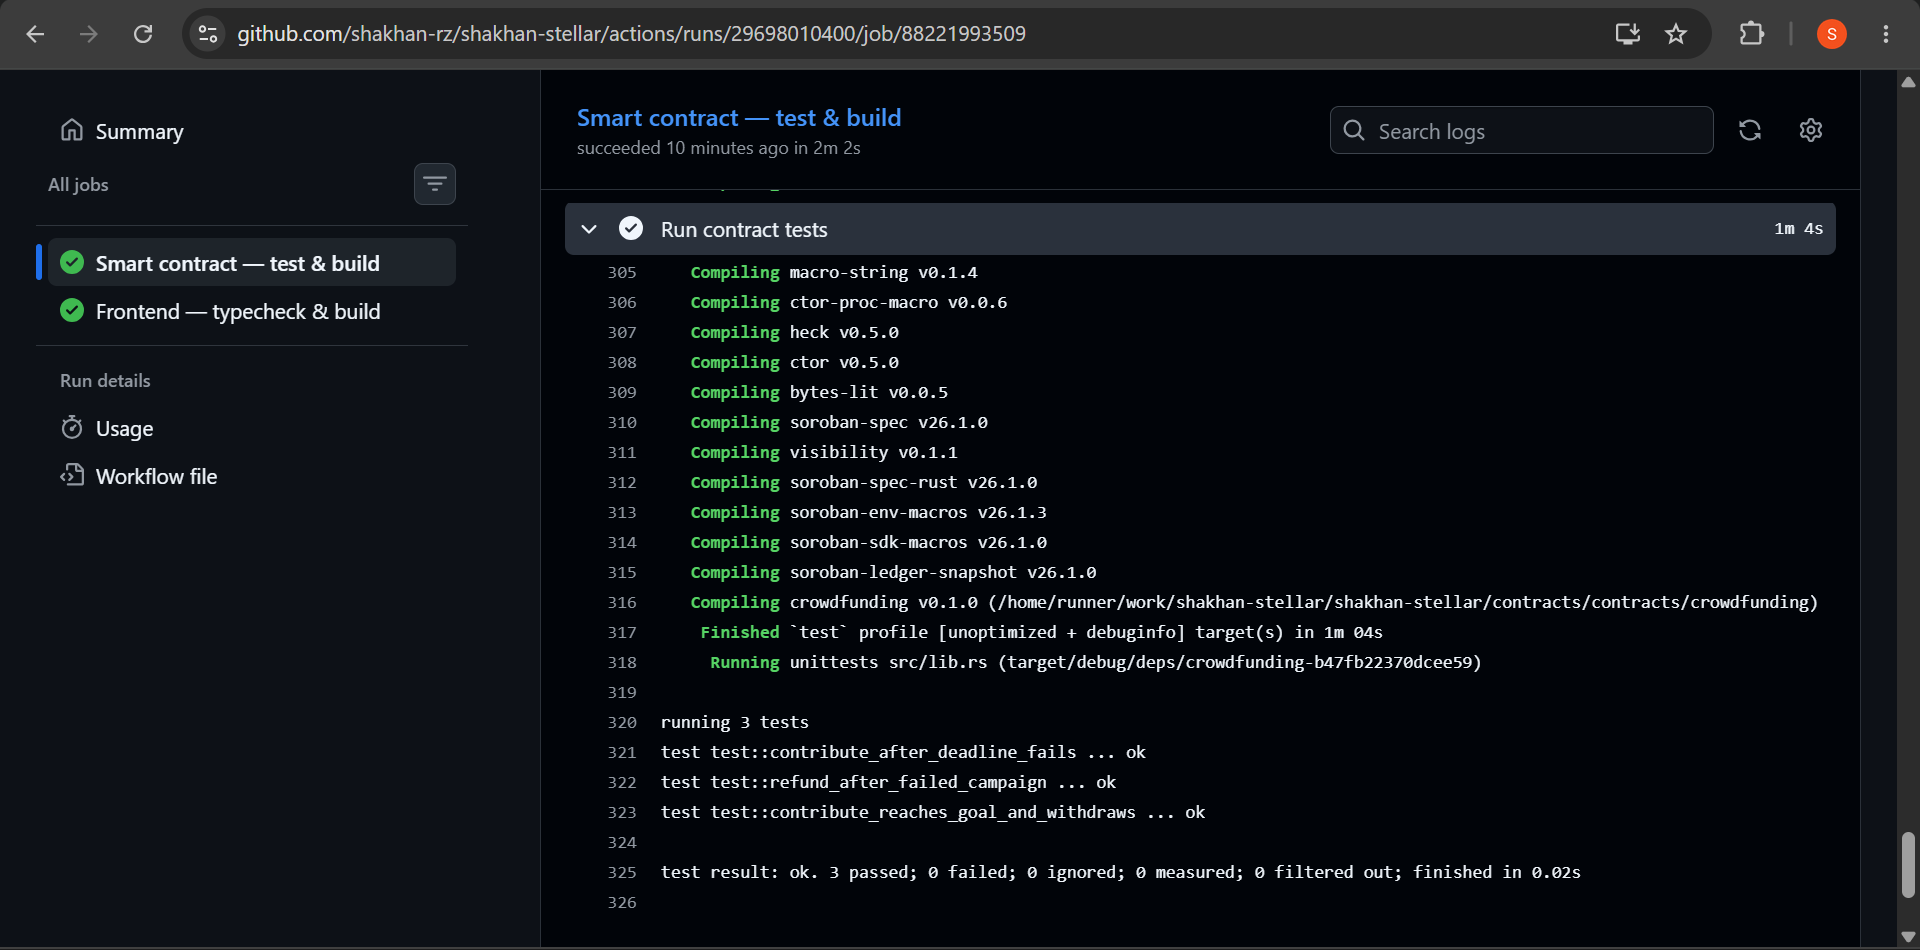
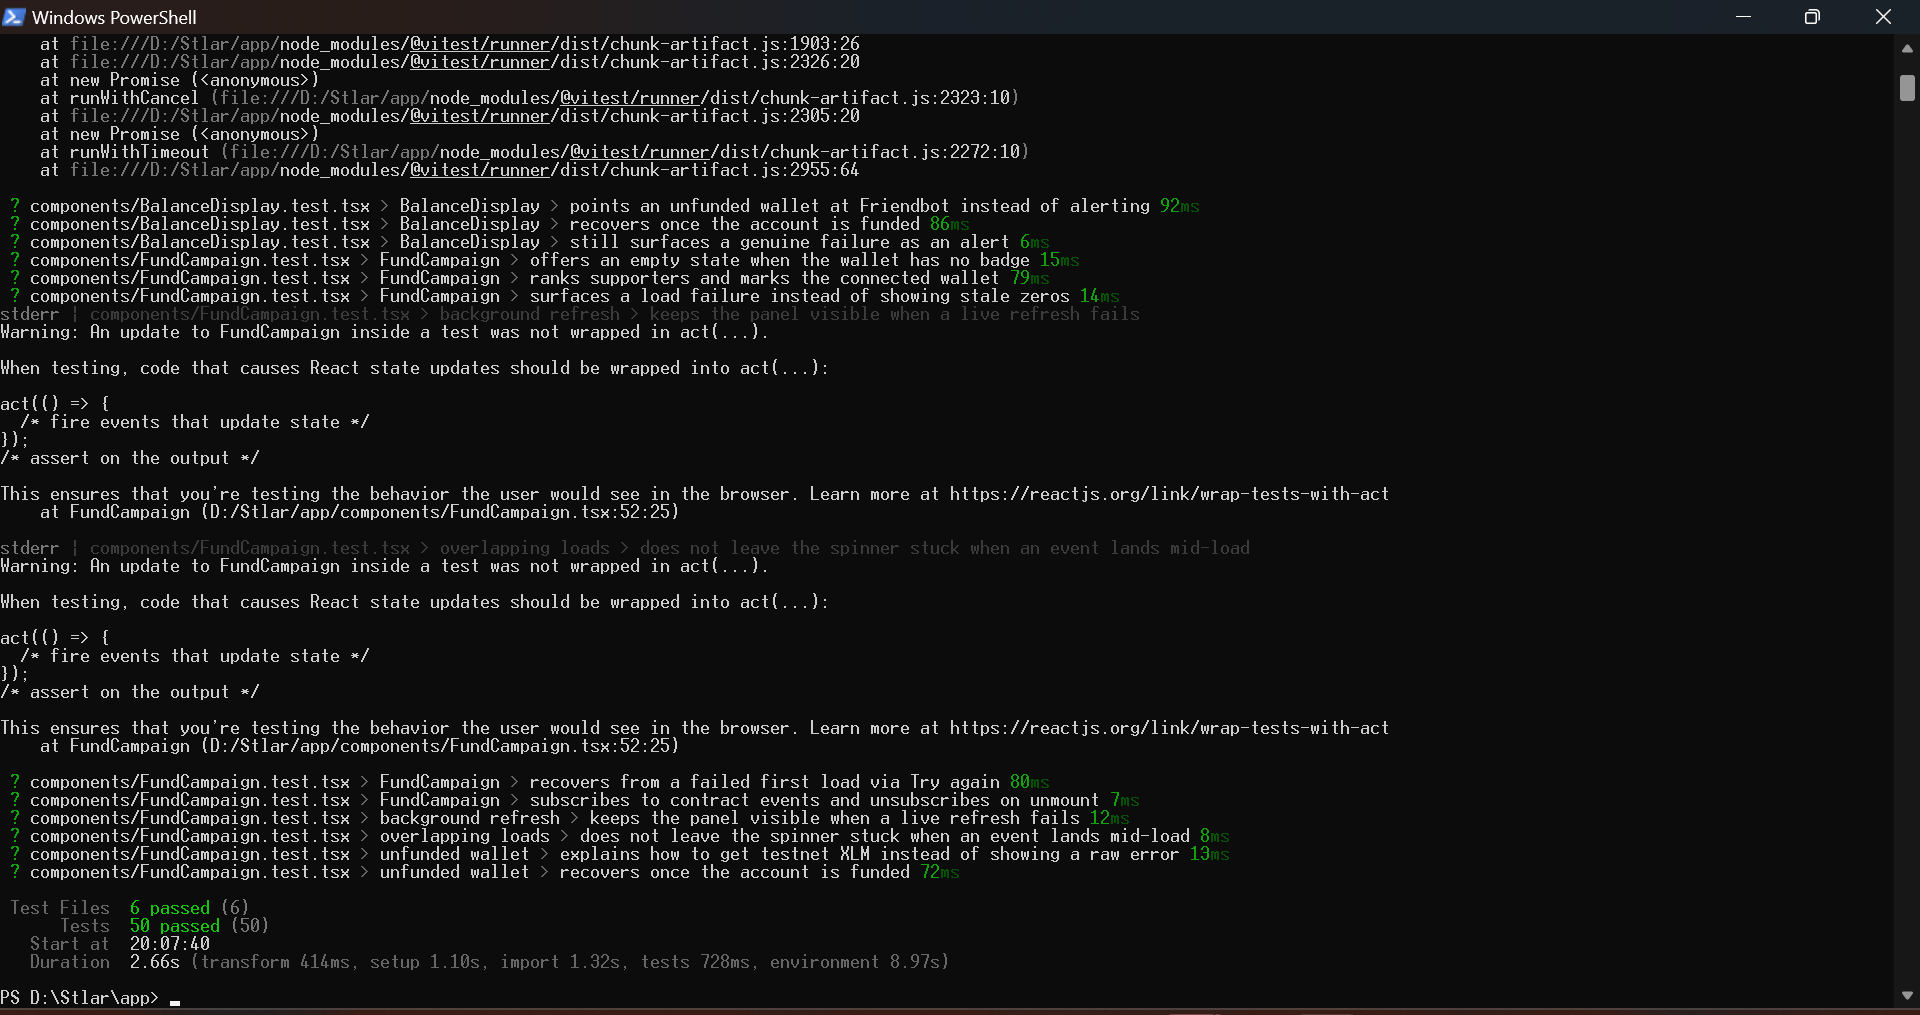
@ Refresh test screenshots: 50 frontend + 16 contract tests
Replace the stale tests.png (which showed the old 3-test contract run)
with a current Vitest run (50 passed) and add tests-contracts.png showing
both cargo suites (8 badge + 8 crowdfunding). Point the README at both.

@

diff --git a/README.md b/README.md
@@ -298,8 +298,11 @@ The badge and leaderboard below it are read from a second contract.
 **CI pipeline — both jobs green on every push**
 ![CI](./screenshots/ci.png)
 
-**Test output — passing contract and frontend tests**
-![Tests](./screenshots/tests.png)
+**Frontend test output — 50 passing Vitest tests**
+![Frontend tests](./screenshots/tests.png)
+
+**Contract test output — 16 passing tests (8 badge + 8 crowdfunding)**
+![Contract tests](./screenshots/tests-contracts.png)
 
 ---
 